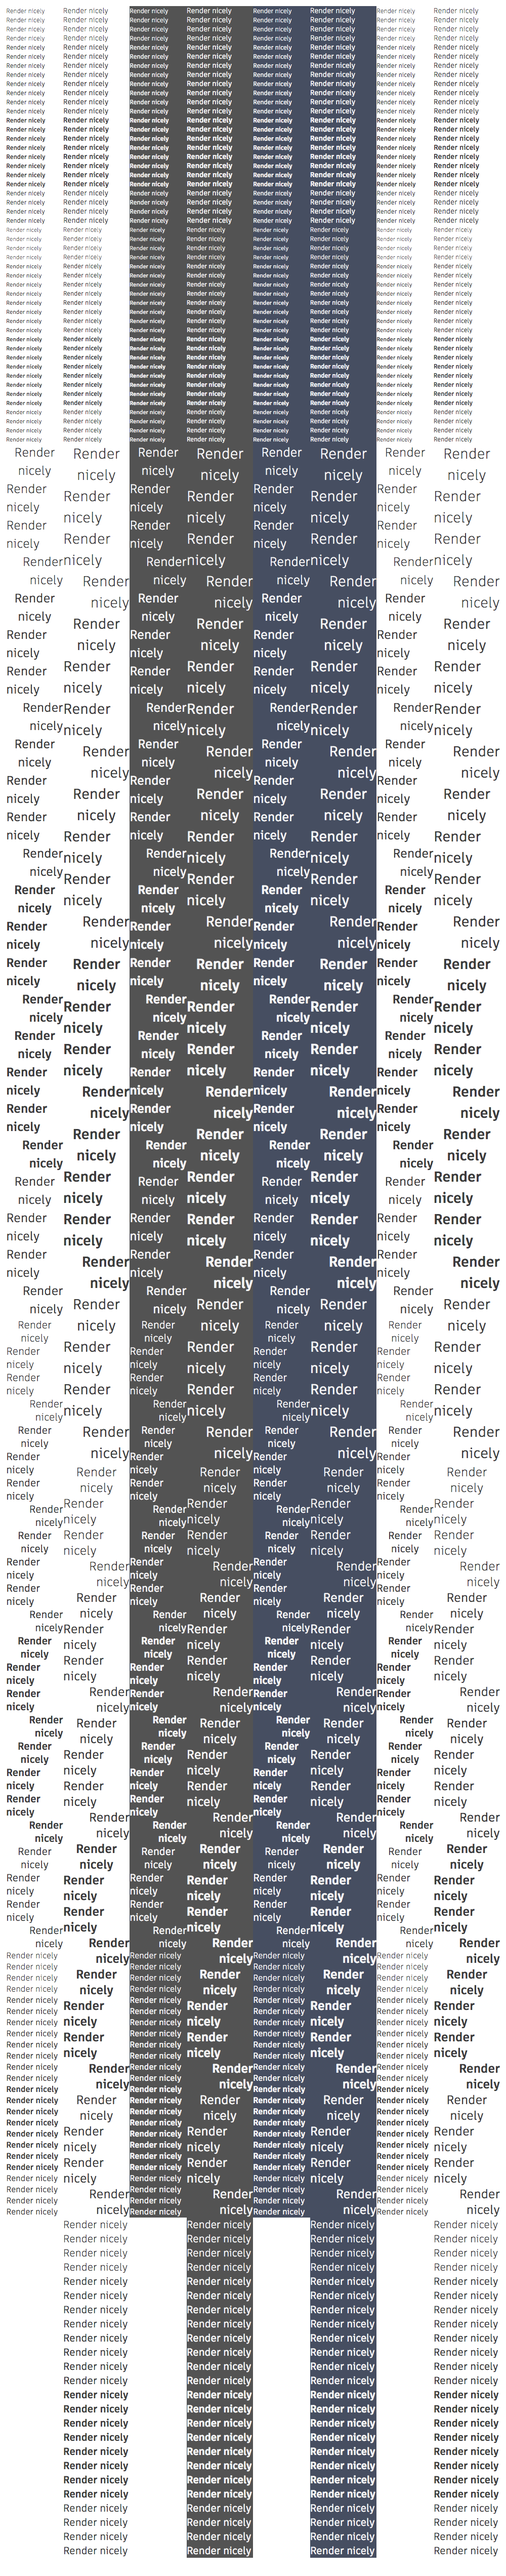
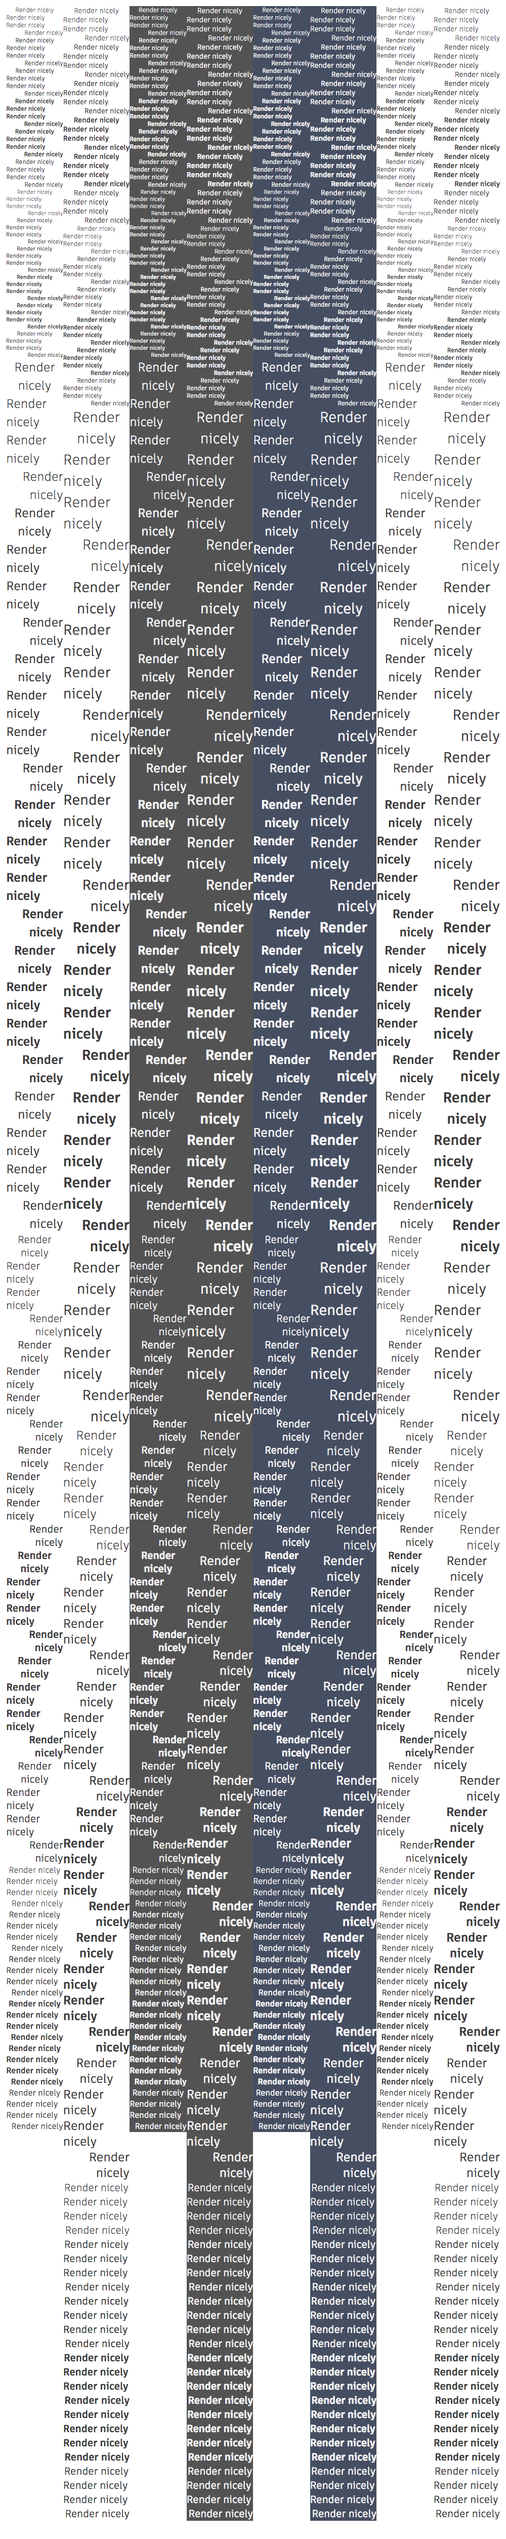
chore(typography): update display styling to block

Changed region(s): [[0.0, 0.0, 0.992, 0.9952]]

diff --git a/packages/typography/src/Typography.stylesheet.js b/packages/typography/src/Typography.stylesheet.js
@@ -5,7 +5,7 @@ export default function stylesheet(props, themeData) {
   return {
     typography: {
       color: themeData[`typography.${variant}.color`],
-      display: "inline-block",
+      display: "block",
       fontFamily: themeData[`typography.${variant}.fontFamily`],
       fontSize: themeData[`typography.${variant}.fontSize`],
       fontWeight: fontWeight || themeData[`typography.${variant}.fontWeight`],
